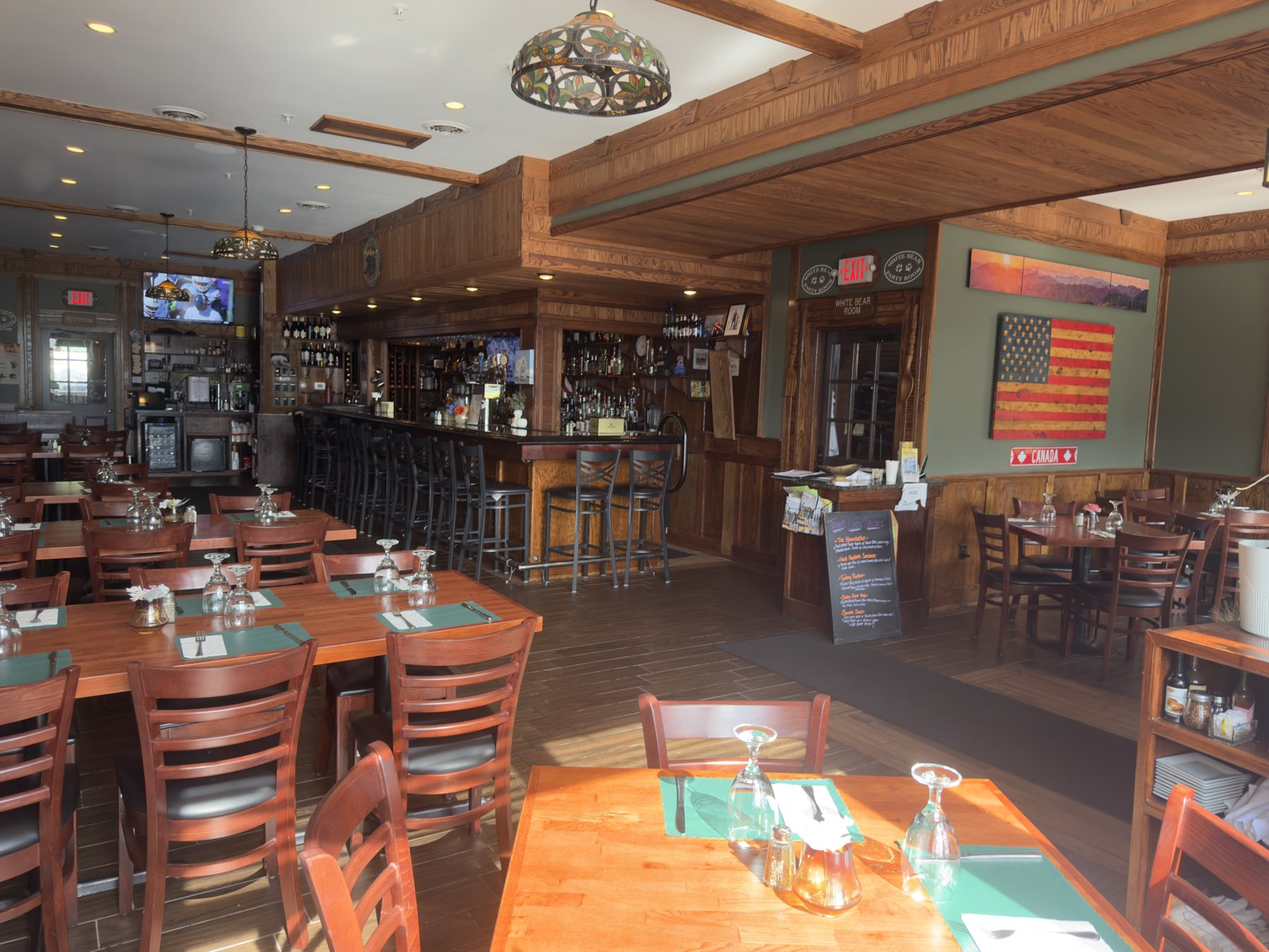
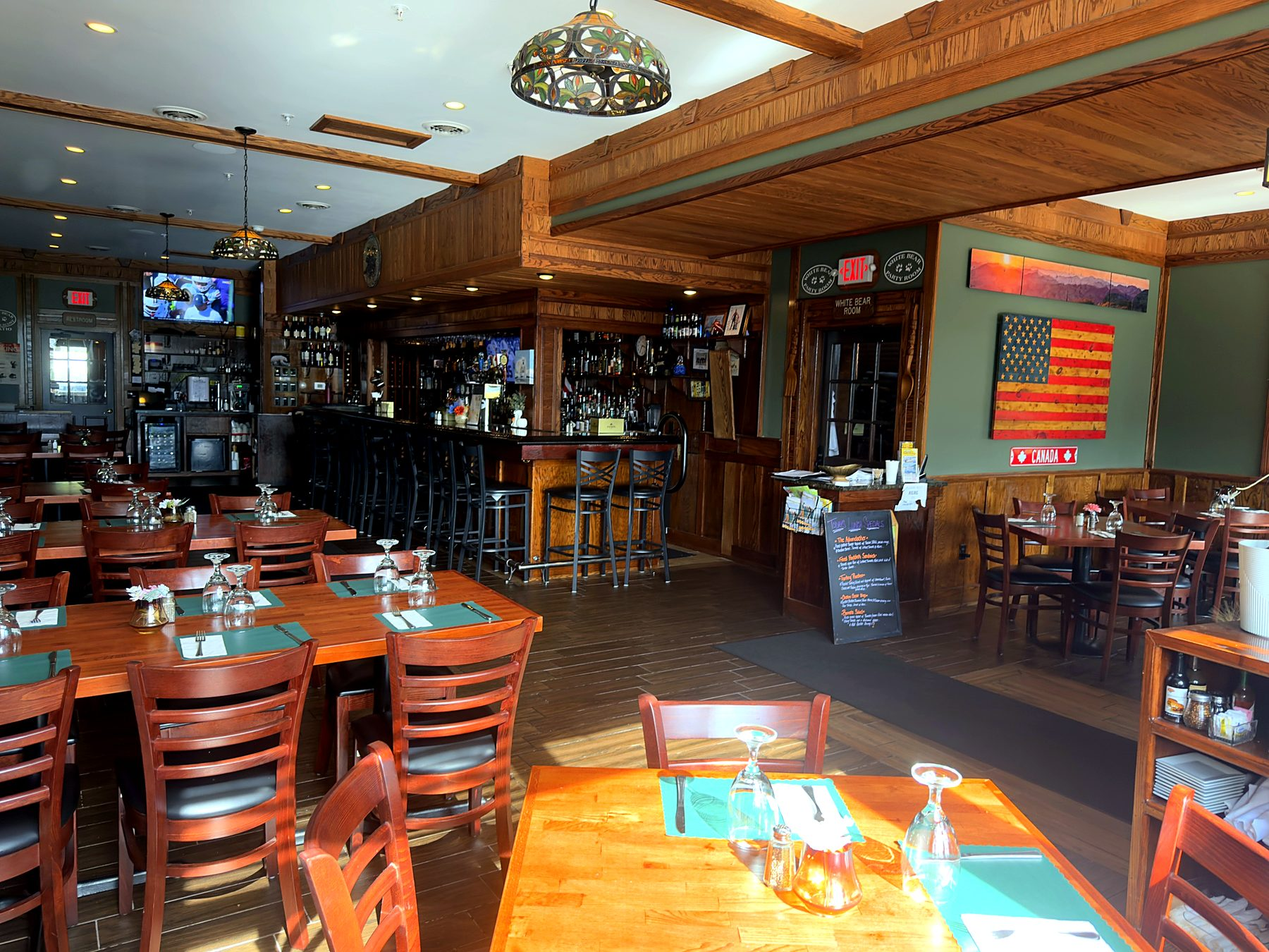
Editar foto de fondo, encabezado transparente y "About us" desplegable
- Foto de fondo editada (más viveza de color, contraste y nitidez) para
  un acabado más profesional.
- El encabezado del apartado del cliente ahora es transparente sobre la
  foto de fondo, con un degradado oscuro sutil para mantener el texto
  legible, en vez de un bloque sólido de color.
- "About us" ahora es una barra desplegable igual que "Venue information"
  (clic en toda la barra, no solo en el botón, para expandir/contraer).

diff --git a/public/js/app.js b/public/js/app.js
@@ -15,8 +15,12 @@
   const groupMenuNote = document.getElementById("group-menu-note");
   const groupMenuItemsEl = document.getElementById("group-menu-items");
   const preOrderNotesInput = document.getElementById("preOrderNotes");
+  const infoHeader = document.getElementById("info-header");
   const infoToggleBtn = document.getElementById("info-toggle-btn");
   const infoContent = document.getElementById("info-content");
+  const aboutHeader = document.getElementById("about-header");
+  const aboutToggleBtn = document.getElementById("about-toggle-btn");
+  const aboutContent = document.getElementById("about-content");
   const langSwitcher = document.getElementById("lang-switcher");
   const welcomeSplash = document.getElementById("welcome-splash");
 
@@ -64,11 +68,22 @@
   function renderInfoToggleLabel() {
     infoToggleBtn.textContent = i18n.t(infoExpanded ? "info.seeLess" : "info.seeAll");
   }
-  infoToggleBtn.addEventListener("click", () => {
+  infoHeader.addEventListener("click", () => {
     infoExpanded = !infoExpanded;
     infoToggleBtn.setAttribute("aria-expanded", String(infoExpanded));
     infoContent.hidden = !infoExpanded;
     renderInfoToggleLabel();
+  });
+
+  let aboutExpanded = false;
+  function renderAboutToggleLabel() {
+    aboutToggleBtn.textContent = i18n.t(aboutExpanded ? "info.seeLess" : "info.seeAll");
+  }
+  aboutHeader.addEventListener("click", () => {
+    aboutExpanded = !aboutExpanded;
+    aboutToggleBtn.setAttribute("aria-expanded", String(aboutExpanded));
+    aboutContent.hidden = !aboutExpanded;
+    renderAboutToggleLabel();
   });
 
   function renderInfoSection() {
@@ -246,6 +261,7 @@
   function renderAll() {
     renderInfoSection();
     renderInfoToggleLabel();
+    renderAboutToggleLabel();
     renderHeroHours();
     updateTimeConstraints();
     renderPartySizeHint();

diff --git a/public/index.html b/public/index.html
@@ -63,15 +63,21 @@
 <div class="container">
 
   <div class="card">
-    <p class="section-title" data-i18n="about.title">About us</p>
-    <p style="margin:0;color:var(--text-muted)" data-i18n="about.description">
-      Dine-in · Takeout · Delivery. Guests highlight generous portions, a great variety on the menu, friendly staff and a wonderful atmosphere.
-    </p>
-    <div class="highlights">
-      <span class="highlight-chip">Crispy Calamari with Marinara Sauce</span>
-      <span class="highlight-chip">Tortellini</span>
-      <span class="highlight-chip">Chicken Caesar Salad</span>
-      <span class="highlight-chip">Eggplant Parmigiana</span>
+    <div class="info-header" id="about-header">
+      <p class="section-title" style="margin:0" data-i18n="about.title">About us</p>
+      <button type="button" class="info-toggle-btn" id="about-toggle-btn" aria-expanded="false" aria-controls="about-content">See all ▾</button>
+    </div>
+
+    <div id="about-content" hidden>
+      <p style="margin:16px 0 0;color:var(--text-muted)" data-i18n="about.description">
+        Dine-in · Takeout · Delivery. Guests highlight generous portions, a great variety on the menu, friendly staff and a wonderful atmosphere.
+      </p>
+      <div class="highlights">
+        <span class="highlight-chip">Crispy Calamari with Marinara Sauce</span>
+        <span class="highlight-chip">Tortellini</span>
+        <span class="highlight-chip">Chicken Caesar Salad</span>
+        <span class="highlight-chip">Eggplant Parmigiana</span>
+      </div>
     </div>
   </div>
 

diff --git a/public/css/style.css b/public/css/style.css
@@ -239,6 +239,15 @@ header.hero {
   padding: 28px 20px 32px;
 }
 
+/* En el apartado del cliente el encabezado va transparente sobre la foto
+   de fondo -- un degradado oscuro sutil mantiene el texto blanco legible
+   sin volver a tapar la foto con un bloque de color sólido. */
+body.customer-body header.hero {
+  background: linear-gradient(180deg, rgba(15, 8, 6, 0.55) 0%, rgba(15, 8, 6, 0.28) 100%);
+  backdrop-filter: blur(2px);
+  -webkit-backdrop-filter: blur(2px);
+}
+
 header.hero .hero-inner {
   max-width: 760px;
   margin: 0 auto;
